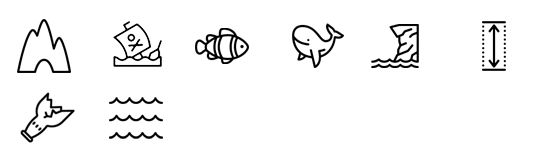
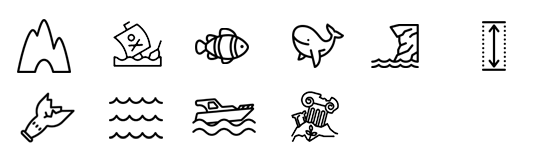
210922_23

Changed region(s): [[0.5333, 0.5625, 0.6519, 0.9062], [0.3556, 0.5938, 0.4741, 0.8438]]

diff --git a/frontend_mobile/src/components/SiteDetailPage.vue b/frontend_mobile/src/components/SiteDetailPage.vue
@@ -80,12 +80,40 @@
                 <h4 class="text-center pt-2 mb-2">where is here?</h4>
                 <div class="row text-start mb-0 txt_box2">
                     <div class="ico_feature col-3">
+                        <i class="ico_feature1 icon-point"></i>
+                        <p class="span_feature text-center">동굴</p>
+                    </div>
+                    <div class="ico_feature col-3">
                         <i class="ico_feature2 icon-point"></i>
                         <p class="span_feature text-center">난파선</p>
                     </div>
                     <div class="ico_feature col-3">
+                        <i class="ico_feature3 icon-point"></i>
+                        <p class="span_feature text-center">마크로</p>
+                    </div>
+                    <div class="ico_feature col-3">
+                        <i class="ico_feature4 icon-point"></i>
+                        <p class="span_feature text-center">대물</p>
+                    </div>
+                    <div class="ico_feature col-3">
                         <i class="ico_feature5 icon-point"></i>
                         <p class="span_feature text-center">월다이빙</p>
+                    </div>
+                    <div class="ico_feature col-3">
+                        <i class="ico_feature6 icon-point"></i>
+                        <p class="span_feature text-center">딥다이빙</p>
+                    </div>
+                    <div class="ico_feature col-3">
+                        <i class="ico_feature8 icon-point"></i>
+                        <p class="span_feature text-center">드리프트</p>
+                    </div>
+                    <div class="ico_feature col-3">
+                        <i class="ico_feature9 icon-point"></i>
+                        <p class="span_feature text-center">리브어보드</p>
+                    </div>
+                    <div class="ico_feature col-3">
+                        <i class="ico_feature10 icon-point"></i>
+                        <p class="span_feature text-center">구조물</p>
                     </div>
                 </div>
                 <div class="justify-content-center mb-2 mt-3 text-start">
@@ -693,12 +721,12 @@ export default {
 .ico_feature4 {width: 44px;height: 40px;background-position: -135px -3px;}
 .ico_feature5 {width: 44px;height: 40px;background-position: -180px -3px;}
 .ico_feature6 {width: 44px;height: 40px;background-position: -225px -3px;}
-.ico_feature7 {width: 44px;height: 40px;background-position: 0px -368px;}
-.ico_feature8 {width: 44px;height: 40px;background-position: -45px -36px;}
-.ico_feature9 {width: 44px;height: 40px;background-position: -90px -36px;}
-.ico_feature10 {width: 44px;height: 40px;background-position: -135px -36px;}
-.ico_feature11 {width: 44px;height: 40px;background-position: -180px -36px;}
-.ico_feature12 {width: 44px;height: 40px;background-position: -225px -36px;}
+.ico_feature7 {width: 44px;height: 40px;background-position: 0px -40px;}
+.ico_feature8 {width: 44px;height: 40px;background-position: -45px -42px;}
+.ico_feature9 {width: 44px;height: 40px;background-position: -90px -40px;}
+.ico_feature10 {width: 44px;height: 40px;background-position: -135px -42px;}
+.ico_feature11 {width: 44px;height: 40px;background-position: -180px -40px;}
+.ico_feature12 {width: 44px;height: 40px;background-position: -225px -40px;}
 
 .icon-point {overflow: hidden;display: block;margin-left: 11px;background-image: url(/static/images/wedive_point.png);background-repeat: no-repeat;-webkit-background-size: 270px 90px;background-size: 270px 90px;}
 

diff --git a/frontend_mobile/src/App.vue b/frontend_mobile/src/App.vue
@@ -15,7 +15,7 @@
           <div id="footer-bar" class="footer-bar">
             <a href="/" id="nav-home"><div class="menu-ico menu-ico0"></div><span>홈</span></a>
             <a href="/buddy_home" id="nav-buddy"><div class="menu-ico menu-ico1"></div><span>버디찾기</span></a>
-            <a href="/center_home" id="nav-site"><div class="menu-ico menu-ico2"></div><span>사이트찾기</span></a>
+            <a href="/site_home" id="nav-site"><div class="menu-ico menu-ico2"></div><span>사이트찾기</span></a>
             <a href="" id="nav-shopping"><div class="menu-ico menu-ico3"></div><span>쇼핑</span></a>
             <a href="#" id="nav-chat"><div class="menu-ico menu-ico4"></div><span>채팅</span></a>
           </div>

diff --git a/frontend_mobile/src/components/CenterDetailPage.vue b/frontend_mobile/src/components/CenterDetailPage.vue
@@ -711,7 +711,7 @@
             </div>
             <div class="text-center color-gray mt-2 mb-3">이 다이빙 센터는 어떠셨나요?</div>
             <div class="me-4 ms-4 mb-5" style="background: rgba(58, 58, 58, 0.03);padding: 10px 20px;">
-                <p class="mb-0" style="color: rgba(58, 58, 58, 0.6)">리뷰를 남기고 다른 다이버들에게 도움이 되어보세요.</p>
+                <p class="mb-0" style="color: rgba(58, 58, 58, 0.6)">다른 다이버들에게 도움이 되어보세요.</p>
                 <p class="mb-0 color-highlight">지금 리뷰남기기 <i class="fas fa-chevron-right ms-1"></i></p>
             </div>
         </div>
